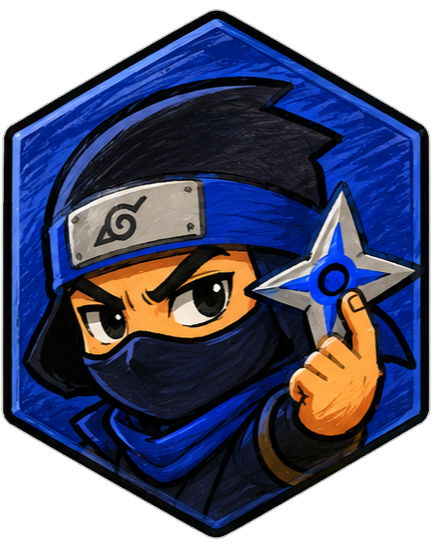
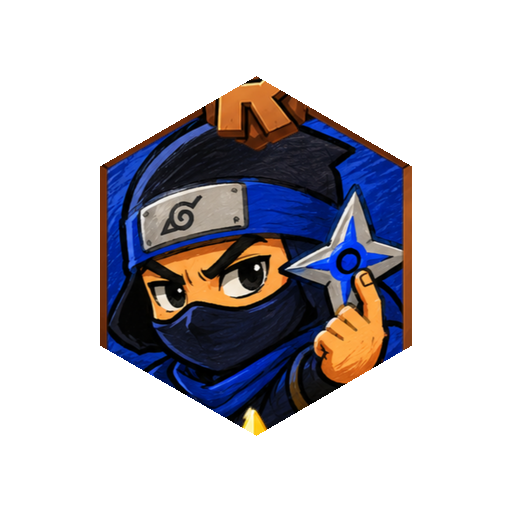
Add files via upload

diff --git a/index.html b/index.html
@@ -566,6 +566,22 @@
 
 .player-refresh-clock{margin-right:auto;min-width:108px;text-align:center;display:flex;flex-direction:column;align-items:center;justify-content:center;gap:2px;padding:7px 10px;border:1px solid var(--border);border-radius:12px;background:rgba(255,255,255,.72);white-space:nowrap}.refresh-countdown{font-family:'Lalezar';font-size:16px;line-height:1;color:var(--primary-deep);direction:ltr;letter-spacing:.4px}.refresh-done{display:none;font-size:10px;font-weight:900;color:#168447;line-height:1.2}.player-refresh-clock.is-done .refresh-countdown{display:none}.player-refresh-clock.is-done .refresh-done{display:block}@media(max-width:600px){.data-refresh-notice{flex-wrap:wrap}.notice-copy{flex:1;min-width:180px}.player-refresh-clock{margin-right:0;margin-top:4px;min-width:98px}.refresh-countdown{font-size:14px}}
 .data-refresh-notice{display:flex;align-items:center;gap:12px;margin:0 0 14px;padding:13px 16px;border:1px solid var(--border);border-radius:16px;background:linear-gradient(135deg,#F7F3FF,#FFF);box-shadow:0 6px 20px rgba(80,55,130,.06)}.data-refresh-notice .notice-icon{font-size:22px}.data-refresh-notice strong{font-size:12px;font-weight:900;color:var(--ink)}.data-refresh-notice p{margin:3px 0 0;font-size:10px;line-height:1.7;color:var(--ink-soft)}@media(max-width:600px){.data-refresh-notice{align-items:flex-start}}
+
+  /* ===== Composite avatar system: the uploaded avatar+frame artworks are single images. ===== */
+  .user-chip-avatar-wrap{position:relative;width:36px;height:40px;background:none!important;overflow:visible!important;clip-path:none!important;flex-shrink:0;}
+  .user-chip-avatar-wrap img{width:100%;height:100%;object-fit:contain;display:block;}
+  .appearance-preview{width:96px!important;height:96px!important;overflow:visible!important;}
+  .appearance-preview img{width:100%!important;height:100%!important;max-width:none!important;max-height:none!important;object-fit:contain!important;display:block;}
+  .appearance-preview .frame-ring{display:none!important;}
+  .pm-avatar{position:relative!important;width:118px!important;height:118px!important;aspect-ratio:1!important;overflow:visible!important;background:none!important;box-shadow:none!important;clip-path:none!important;}
+  .pm-avatar img.pm-avatar-image{position:static!important;transform:none!important;width:100%!important;height:100%!important;object-fit:contain!important;border-radius:0!important;display:block;}
+  .pm-avatar .pm-frame{display:none!important;}
+  .p-hex,.mini-h{background:none!important;clip-path:none!important;width:82px!important;height:82px!important;overflow:visible!important;}
+  .p-hex img,.mini-h img{width:100%;height:100%;object-fit:contain;display:block;}
+  .season-leader-avatar{width:78px;height:78px;margin:0 auto 6px;display:flex;align-items:center;justify-content:center;overflow:visible;}
+  .season-leader-avatar img{width:100%;height:100%;object-fit:contain;display:block;}
+  .appearance-card{cursor:pointer;}
+  .appearance-card.locked{cursor:not-allowed;}
 </style>
 </head>
 <body>
@@ -665,7 +681,7 @@
       </div>
       <div class="acct-menu-wrap">
         <div class="user-chip" id="userChipBtn" role="button" tabindex="0" aria-haspopup="true" aria-expanded="false" aria-label="حساب المستخدم">
-          <div class="hex">👤</div>
+          <div class="hex user-chip-avatar-wrap"><img id="loggedAvatar" src="assets/avatars/controller.png" alt="صورة اللاعب"></div>
           <span id="loggedUsername">لاعب</span>
         </div>
         <div class="acct-dropdown" id="acctDropdown" role="menu">
@@ -1423,7 +1439,7 @@ function renderSeason(players){
   const rows=players.map(p=>{const s=seasonStatsByUser[String(p.user_id)]||{};return {...p,seasonGain:Number(s.trophies_gained||0),rankGain:Number(s.rank_gained||0),achievements:Array.isArray(s.achievements)?s.achievements:[]};});
   rows.sort((a,b)=>b.seasonGain-a.seasonGain || Number(b.trophies||0)-Number(a.trophies||0));
   const top=rows.slice(0,3), lead=document.getElementById('seasonLeaders');
-  if(lead){const medals=['🥇','🥈','🥉'], cls=['gold','silver','bronze']; lead.innerHTML=top.length?top.map((p,i)=>`<div class="season-leader ${cls[i]}"><div class="season-medal">${medals[i]}</div><div class="season-rank">#${i+1}</div><div class="season-leader-name">${escapeHtml(p.username||'لاعب')}</div><div class="season-leader-clan">${escapeHtml(p.clan||'بلا كلان')}</div><div class="season-gain">+${p.seasonGain.toLocaleString('en-US')} 🏆</div><div class="season-meta">الرتبة التي رفعها: ${p.rankGain.toLocaleString('en-US')}<br>الإنجازات: ${p.achievements.length}</div></div>`).join(''):'<div class="season-empty" style="grid-column:1/-1">لا يوجد لاعبون في الموسم بعد.</div>'}
+  if(lead){const medals=['🥇','🥈','🥉'], cls=['gold','silver','bronze']; lead.innerHTML=top.length?top.map((p,i)=>`<div class="season-leader ${cls[i]}"><div class="season-medal">${medals[i]}</div><div class="season-leader-avatar"><img src="${escapeHtml(getCompositeSrc(p.avatar_key,p.frame_key,p.avatar_url))}" alt=""></div><div class="season-rank">#${i+1}</div><div class="season-leader-name">${escapeHtml(p.username||'لاعب')}</div><div class="season-leader-clan">${escapeHtml(p.clan||'بلا كلان')}</div><div class="season-gain">+${p.seasonGain.toLocaleString('en-US')} 🏆</div><div class="season-meta">الرتبة التي رفعها: ${p.rankGain.toLocaleString('en-US')}<br>الإنجازات: ${p.achievements.length}</div></div>`).join(''):'<div class="season-empty" style="grid-column:1/-1">لا يوجد لاعبون في الموسم بعد.</div>'}
   const body=document.getElementById('seasonPlayersBody'); if(!body)return;
   body.innerHTML=rows.length?rows.map((p,i)=>`<tr><td class="season-rank-num">#${i+1}</td><td><b>${escapeHtml(p.username||'لاعب')}</b>${p.verified?'<span style="color:#149E77;margin-right:4px">✓</span>':''}</td><td><b>${Number(p.trophies||0).toLocaleString('en-US')}</b></td><td>${escapeHtml(p.clan||'—')}</td><td><b>+${p.seasonGain.toLocaleString('en-US')}</b></td><td>${p.rankGain.toLocaleString('en-US')}</td><td><div class="season-achievements">${p.achievements.length?p.achievements.map(a=>`<span class="season-achievement">${escapeHtml(a)}</span>`).join(''):'<span style="color:var(--ink-soft);font-size:10px">لا توجد بعد</span>'}</div></td></tr>`).join(''):'<tr><td colspan="7" class="season-empty">لا يوجد لاعبون في الموسم بعد.</td></tr>';
 }
@@ -1458,7 +1474,7 @@ function renderPodium(top3){
   const el = document.getElementById("podium");
   if(!top3.length){ el.innerHTML='<div class="podium-empty">لا يوجد لاعبون بعد — كن أول من ينضم!</div>'; return; }
   const order=[top3[1],top3[0],top3[2]], classes=["p2","p1","p3"];
-  el.innerHTML=order.map((p,i)=>{if(!p)return "";return `<div class="p-slot ${classes[i]}" tabindex="0" role="button" data-podium-player="${escapeHtml(playerKeyFor(p))}" aria-label="فتح بروفايل ${escapeHtml(p.username||"اللاعب")}"><div class="p-hex hex">🎮</div><div class="p-name">${escapeHtml(p.username)}</div><div class="p-clan">${escapeHtml(p.clan||"بلا كلان")}</div><div class="p-bar">${(p.trophies||0).toLocaleString("en-US")}</div></div>`}).join("");
+  el.innerHTML=order.map((p,i)=>{if(!p)return "";const src=getCompositeSrc(p.avatar_key,p.frame_key,p.avatar_url);return `<div class="p-slot ${classes[i]}" tabindex="0" role="button" data-podium-player="${escapeHtml(playerKeyFor(p))}" aria-label="فتح بروفايل ${escapeHtml(p.username||"اللاعب")}"><div class="p-hex"><img src="${escapeHtml(src)}" alt=""></div><div class="p-name">${escapeHtml(p.username)}</div><div class="p-clan">${escapeHtml(p.clan||"بلا كلان")}</div><div class="p-bar">${(p.trophies||0).toLocaleString("en-US")}</div></div>`}).join("");
 }
 
 function renderPlayersTable(list){
@@ -1470,7 +1486,7 @@ function renderPlayersTable(list){
     const searchKey=(p.username+" "+(p.clan||"")+" "+title+" "+(p.rank||"")).toLowerCase();
     const miniBadges=awards.slice(0,4).map(a=>{const b=BADGE_DEFINITIONS.find(x=>x.id===String(a.badge_id));return b?`<span class="player-badge-mini" title="${escapeHtml(b.name)}">${b.icon}</span>`:""}).join("");
     const more=awards.length>4?`<span class="more">+${awards.length-4}</span>`:"";
-    return `<tr data-search="${escapeHtml(searchKey)}" class="player-row" data-player-id="${escapeHtml(pid)}" tabindex="0" role="button" aria-haspopup="dialog"><td class="rank-num">${i+1}</td><td><div class="row-player"><div class="mini-h hex" style="background:linear-gradient(145deg,var(--primary),var(--primary-deep))">🎮</div><div>${escapeHtml(p.username)}${p.verified?'<span style="color:#149E77;font-size:10px;font-weight:900;margin-right:5px">✓</span>':''}</div></div></td><td><div class="player-badges-inline">${miniBadges||'<span style="color:var(--ink-soft);font-size:10px">—</span>'}${more}</div></td><td>${escapeHtml(p.clan||"—")}</td><td><b>${(p.trophies||0).toLocaleString("en-US")}</b></td><td>${(p.wins||0).toLocaleString("en-US")}</td><td><span class="tag ${t.cls}">${t.icon} ${t.label}</span></td></tr>`;
+    return `<tr data-search="${escapeHtml(searchKey)}" class="player-row" data-player-id="${escapeHtml(pid)}" tabindex="0" role="button" aria-haspopup="dialog"><td class="rank-num">${i+1}</td><td><div class="row-player"><div class="mini-h"><img src="${escapeHtml(getCompositeSrc(p.avatar_key,p.frame_key,p.avatar_url))}" alt=""></div><div>${escapeHtml(p.username)}${p.verified?'<span style="color:#149E77;font-size:10px;font-weight:900;margin-right:5px">✓</span>':''}</div></div></td><td><div class="player-badges-inline">${miniBadges||'<span style="color:var(--ink-soft);font-size:10px">—</span>'}${more}</div></td><td>${escapeHtml(p.clan||"—")}</td><td><b>${(p.trophies||0).toLocaleString("en-US")}</b></td><td>${(p.wins||0).toLocaleString("en-US")}</td><td><span class="tag ${t.cls}">${t.icon} ${t.label}</span></td></tr>`;
   }).join("");
 }
 
@@ -1627,12 +1643,10 @@ function formatJoinDate(iso){
 function renderProfileContent(p){
   const name = escapeHtml(p.username || "لاعب");
   const clan = p.clan ? `<div class="pm-clan">🛡 ${escapeHtml(p.clan)}</div>` : "";
-  const avatarSrc = getAvatarSrc(p.avatar_key, p.avatar_url);
-  const frameSrc = getFrameSrc(p.frame_key);
-  const fm = (p.frame_key && FRAME_METRICS[p.frame_key]) ? FRAME_METRICS[p.frame_key] : null;
-  const pmAvatarStyle = fm ? `--frame-ar:${fm.ar};` : "";
-  const pmImageStyle = fm ? `width:${fm.holeW}%;height:${fm.holeH}%;` : `width:100%;height:100%;`;
-  const avatar = avatarSrc ? `<img class="pm-avatar-image" style="${pmImageStyle}" src="${escapeHtml(avatarSrc)}" alt="${name}">` : "🎮";
+  const avatarSrc = getCompositeSrc(p.avatar_key, p.frame_key, p.avatar_url);
+  const frameSrc = null;
+  const pmAvatarStyle = "";
+  const avatar = avatarSrc ? `<img class="pm-avatar-image" src="${escapeHtml(avatarSrc)}" alt="${name}">` : "🎮";
   const ri=rankInfo(p.rank);
   const joinDate = formatJoinDate(p.created_at);
 
@@ -1669,7 +1683,7 @@ function renderProfileContent(p){
 
   document.getElementById("pmScroll").innerHTML = `
     <div class="pm-head">
-      <div class="pm-avatar" style="${pmAvatarStyle}">${avatar}${frameSrc?`<img class="pm-frame" src="${escapeHtml(frameSrc)}" alt="">`:''}</div>
+      <div class="pm-avatar">${avatar}</div>
       <div class="pm-name" id="pmName">${name}</div>
       ${p.player_tag ? `<div class="pm-tag">${escapeHtml(p.player_tag)}</div>` : ""}
       ${p.social_username ? `<div class="pm-tag" style="direction:ltr;text-align:right">${escapeHtml(p.social_username)}</div>` : ""}
@@ -1726,68 +1740,66 @@ try{
    PROFILE APPEARANCE — avatars & frames
    ============================================================ */
 const AVATAR_OPTIONS=[
-  {key:'starter',name:'ذراع التحكم البنفسجي',src:'assets/avatars/ps4_controller.png',unlock:null},
+  {key:'starter',name:'ذراع التحكم البنفسجي',src:'assets/avatars/controller.png',unlock:null},
   {key:'pirate_flag',name:'حامل علم القراصنة',src:'assets/avatars/pirate_flag.png',unlock:'arena_legend'},
-  {key:'royal_chicken',name:'الدجاجة الملكية',src:'assets/avatars/royal_chicken.png',unlock:'clan_leader'},
-  {key:'tea_knight',name:'فارس الشاي',src:'assets/avatars/tea_knight.png',unlock:'lightning_speed'},
-  {key:'pirate_skull',name:'جمجمة القراصنة',src:'assets/avatars/pirate_skull.png',unlock:'__locked__'},
+  {key:'royal_chicken',name:'الدجاجة الملكية',src:'assets/avatars/chicken.png',unlock:'clan_leader'},
+  {key:'tea_knight',name:'فارس الشاي',src:'assets/avatars/knight.png',unlock:'lightning_speed'},
+  {key:'pirate_skull',name:'جمجمة القراصنة',src:'assets/avatars/skull.png',unlock:'__locked__'},
   {key:'ninja',name:'النينجا',src:'assets/avatars/ninja.png',unlock:'__locked__'}
 ];
 const FRAME_OPTIONS=[
   {key:'classic',name:'بدون إطار',src:null,unlock:null},
-  {key:'bronze',name:'الإطار البرونزي',src:'assets/frames/frame-bronze.png',unlock:'star_hunter'},
-  {key:'silver',name:'الإطار الفضي',src:'assets/frames/frame-silver.png',unlock:'season_champion'},
-  {key:'gold',name:'الإطار الذهبي',src:'assets/frames/frame-gold.png',unlock:'lightning_speed'},
-  {key:'diamond',name:'الإطار الماسي',src:'assets/frames/frame-diamond.png',unlock:'arena_legend'},
-  {key:'masters',name:'إطار الماسترز',src:'assets/frames/frame-masters.png',unlock:'__locked__'}
+  {key:'bronze',name:'الإطار البرونزي',src:null,unlock:'star_hunter'},
+  {key:'silver',name:'الإطار الفضي',src:null,unlock:'season_champion'},
+  {key:'gold',name:'الإطار الذهبي',src:null,unlock:'lightning_speed'},
+  {key:'diamond',name:'الإطار الماسي',src:null,unlock:'arena_legend'},
+  {key:'masters',name:'إطار الماسترز',src:null,unlock:'__locked__'}
 ];
-// أبعاد الفتحة الشفافة الحقيقية داخل كل إطار (مقاسة من ملفات PNG الفعلية نفسها)،
-// تُستخدم لتحجيم صورة الأفاتار بحيث تملأ فتحة الإطار تمامًا دون أي قص سداسي CSS يدوي.
-// ar = نسبة عرض:ارتفاع صورة الإطار نفسها. holeW/holeH = نسبة مئوية من أبعاد الإطار.
-const FRAME_METRICS={
-  bronze:  { ar:(434/571).toFixed(4), holeW:67.7, holeH:48.0 },
-  silver:  { ar:(435/556).toFixed(4), holeW:68.3, holeH:48.7 },
-  gold:    { ar:(520/563).toFixed(4), holeW:57.1, holeH:46.5 },
-  diamond: { ar:(684/601).toFixed(4), holeW:43.9, holeH:50.2 },
-  masters: { ar:(714/609).toFixed(4), holeW:41.9, holeH:48.3 }
+const COMPOSITE_ASSETS={
+  starter:{bronze:'assets/composites/controller-bronze.png',silver:'assets/composites/controller-silver.png',gold:'assets/composites/controller-gold.png',diamond:'assets/composites/controller-diamond.png',masters:'assets/composites/controller-masters.png'},
+  pirate_flag:{bronze:'assets/composites/pirate_flag-bronze.png',silver:'assets/composites/pirate_flag-silver.png',gold:'assets/composites/pirate_flag-gold.png',diamond:'assets/composites/pirate_flag-diamond.png',masters:'assets/composites/pirate_flag-masters.png'},
+  royal_chicken:{bronze:'assets/composites/chicken-bronze.png',silver:'assets/composites/chicken-silver.png',gold:'assets/composites/chicken-gold.png',diamond:'assets/composites/chicken-diamond.png',masters:'assets/composites/chicken-masters.png'},
+  tea_knight:{bronze:'assets/composites/knight-bronze.png',silver:'assets/composites/knight-silver.png',gold:'assets/composites/knight-gold.png',diamond:'assets/composites/knight-diamond.png',masters:'assets/composites/knight-masters.png'},
+  pirate_skull:{bronze:'assets/composites/skull-bronze.png',silver:'assets/composites/skull-silver.png',gold:'assets/composites/skull-gold.png',diamond:'assets/composites/skull-diamond.png',masters:'assets/composites/skull-masters.png'},
+  ninja:{bronze:'assets/composites/ninja-bronze.png',silver:'assets/composites/ninja-silver.png',gold:'assets/composites/ninja-gold.png',diamond:'assets/composites/ninja-diamond.png',masters:'assets/composites/ninja-masters.png'}
 };
-let appearanceMode='avatars', currentPlayerAppearance=null;
-function getAvatarSrc(key,fallback){return (AVATAR_OPTIONS.find(x=>x.key===key)?.src)||fallback||AVATAR_OPTIONS[0].src;}
-function getFrameSrc(key){return FRAME_OPTIONS.find(x=>x.key===key)?.src||null;}
+const AVATAR_ONLY_ASSETS={starter:'assets/avatars/controller.png',pirate_flag:'assets/avatars/pirate_flag.png',royal_chicken:'assets/avatars/chicken.png',tea_knight:'assets/avatars/knight.png',pirate_skull:'assets/avatars/skull.png',ninja:'assets/avatars/ninja.png'};
+function getAvatarSrc(key,fallback){return AVATAR_ONLY_ASSETS[key]||fallback||AVATAR_ONLY_ASSETS.starter;}
+function getFrameSrc(key){return null;}
+function getCompositeSrc(avatarKey,frameKey,fallback){
+  const a=COMPOSITE_ASSETS[avatarKey]||COMPOSITE_ASSETS.starter;
+  if(frameKey && frameKey!=='classic' && a[frameKey]) return a[frameKey];
+  return AVATAR_ONLY_ASSETS[avatarKey]||fallback||AVATAR_ONLY_ASSETS.starter;
+}
 function unlockedAppearance(item){return !item.unlock || (item.unlock!=='__locked__' && (badgeAwardsByUser[String(verifiedUserId||'')]||[]).some(a=>String(a.badge_id)===item.unlock));}
 async function loadCurrentPlayerAppearance(){
   if(!sb||!verifiedUserId)return;
-  const r=await sb.from('players').select('user_id,avatar_key,frame_key,rank').eq('user_id',verifiedUserId).maybeSingle();
+  const r=await sb.from('players').select('user_id,avatar_key,frame_key,avatar_url,rank').eq('user_id',verifiedUserId).maybeSingle();
   if(r.error){console.error('loadCurrentPlayerAppearance:',r.error);return;}
   currentPlayerAppearance=r.data||{user_id:verifiedUserId,avatar_key:'starter',frame_key:'classic',avatar_url:null,rank:'bronze'};
+  if(!Object.keys(badgeAwardsByUser||{}).length) await loadBadgeData();
   renderAppearanceGrid();
+  updateLoggedUserAppearance();
 }
 function renderAppearanceGrid(){
   const grid=document.getElementById('appearanceGrid'); if(!grid)return;
   const list=appearanceMode==='avatars'?AVATAR_OPTIONS:FRAME_OPTIONS;
   const current=appearanceMode==='avatars'?(currentPlayerAppearance?.avatar_key||'starter'):(currentPlayerAppearance?.frame_key||'classic');
-  const currentAvatar=getAvatarSrc(currentPlayerAppearance?.avatar_key);
-  const currentFrame=currentPlayerAppearance?.frame_key ? getFrameSrc(currentPlayerAppearance.frame_key) : null;
+  const currentAvatar=currentPlayerAppearance?.avatar_key||'starter';
   grid.innerHTML=list.map(item=>{
     const ok=unlockedAppearance(item), selected=current===item.key;
-    const avatarHtml=appearanceMode==='avatars'
-      ? `<img src="${escapeHtml(item.src)}" alt="">`
-      : `<img src="${escapeHtml(currentAvatar)}" alt="">`;
-    // IMPORTANT: avatar cards never receive a frame overlay. This removes the old silver hexagon.
-    const frameHtml=appearanceMode==='frames' && item.src
-      ? `<img class="frame-ring" src="${escapeHtml(item.src)}" alt="">`
-      : '';
-    return `<button type="button" class="appearance-card ${selected?'selected':''} ${ok?'':'locked'}" ${ok?'':'disabled'} data-appearance-key="${escapeHtml(item.key)}"><div class="appearance-preview">${avatarHtml}${frameHtml}</div><div class="appearance-name">${escapeHtml(item.name)}</div><div class="appearance-hint">${ok?(selected?'مستخدم الآن':'متاح للاختيار'):'🔒 يتطلب إنجازًا'}</div></button>`;
+    const previewSrc=appearanceMode==='avatars'
+      ? getCompositeSrc(item.key,currentPlayerAppearance?.frame_key||'classic')
+      : getCompositeSrc(currentAvatar,item.key);
+    const hint=ok?(selected?'مستخدم الآن':'متاح للاختيار'):'🔒 يتطلب إنجازًا';
+    return `<button type="button" class="appearance-card ${selected?'selected':''} ${ok?'':'locked'}" ${ok?'':'disabled'} data-appearance-key="${escapeHtml(item.key)}"><div class="appearance-preview"><img src="${escapeHtml(previewSrc)}" alt=""></div><div class="appearance-name">${escapeHtml(item.name)}</div><div class="appearance-hint">${hint}</div></button>`;
   }).join('');
-  grid.querySelectorAll('[data-appearance-key]').forEach(btn=>{
-    btn.addEventListener('click',function(e){ e.preventDefault(); selectAppearance(this.dataset.appearanceKey); });
-  });
+  grid.querySelectorAll('[data-appearance-key]').forEach(btn=>btn.addEventListener('click',function(e){e.preventDefault();selectAppearance(this.dataset.appearanceKey);}));
 }
 async function selectAppearance(key){
   if(!verifiedUserId){alert('يجب تسجيل الدخول أولاً.');return;}
   const list=appearanceMode==='avatars'?AVATAR_OPTIONS:FRAME_OPTIONS, item=list.find(x=>x.key===key);
   if(!item||!unlockedAppearance(item))return;
-  // Do not require the previous appearance row to have loaded before allowing a click.
   const current=currentPlayerAppearance||{user_id:verifiedUserId,avatar_key:'starter',frame_key:'classic',avatar_url:null};
   const payload=appearanceMode==='avatars'
     ? {p_avatar_key:key,p_frame_key:current.frame_key||'classic'}
@@ -1796,7 +1808,13 @@ async function selectAppearance(key){
   if(r.error){console.error('set_player_appearance:',r.error);alert('تعذر حفظ المظهر: '+r.error.message);return;}
   currentPlayerAppearance={...current,...(appearanceMode==='avatars'?{avatar_key:key}:{frame_key:key})};
   renderAppearanceGrid();
+  updateLoggedUserAppearance();
   await loadDashboard();
+}
+function updateLoggedUserAppearance(){
+  const img=document.getElementById('loggedAvatar'); if(!img)return;
+  const p=currentPlayerAppearance||{};
+  img.src=getCompositeSrc(p.avatar_key||'starter',p.frame_key||'classic',p.avatar_url);
 }
 function openAppearancePage(){
   closeAcctDropdown(); closeMobileMenu();
